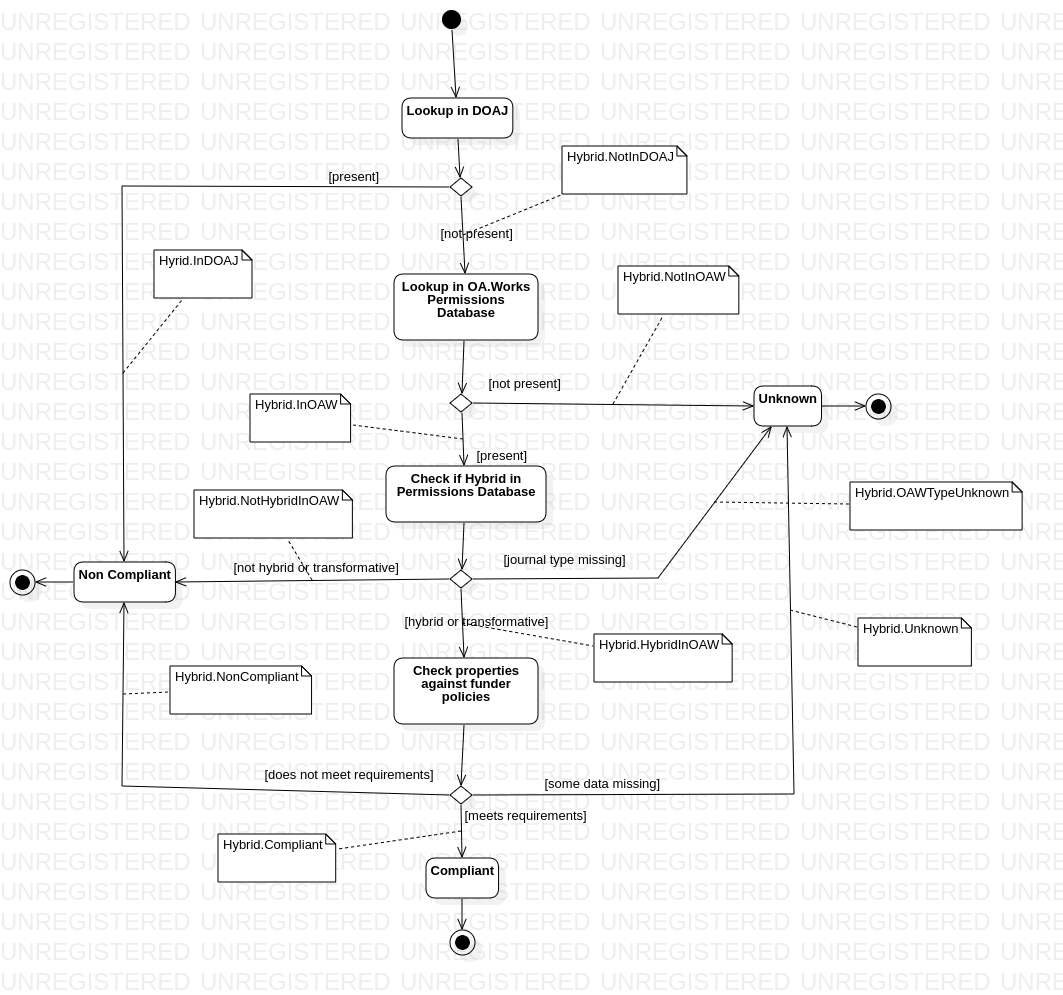
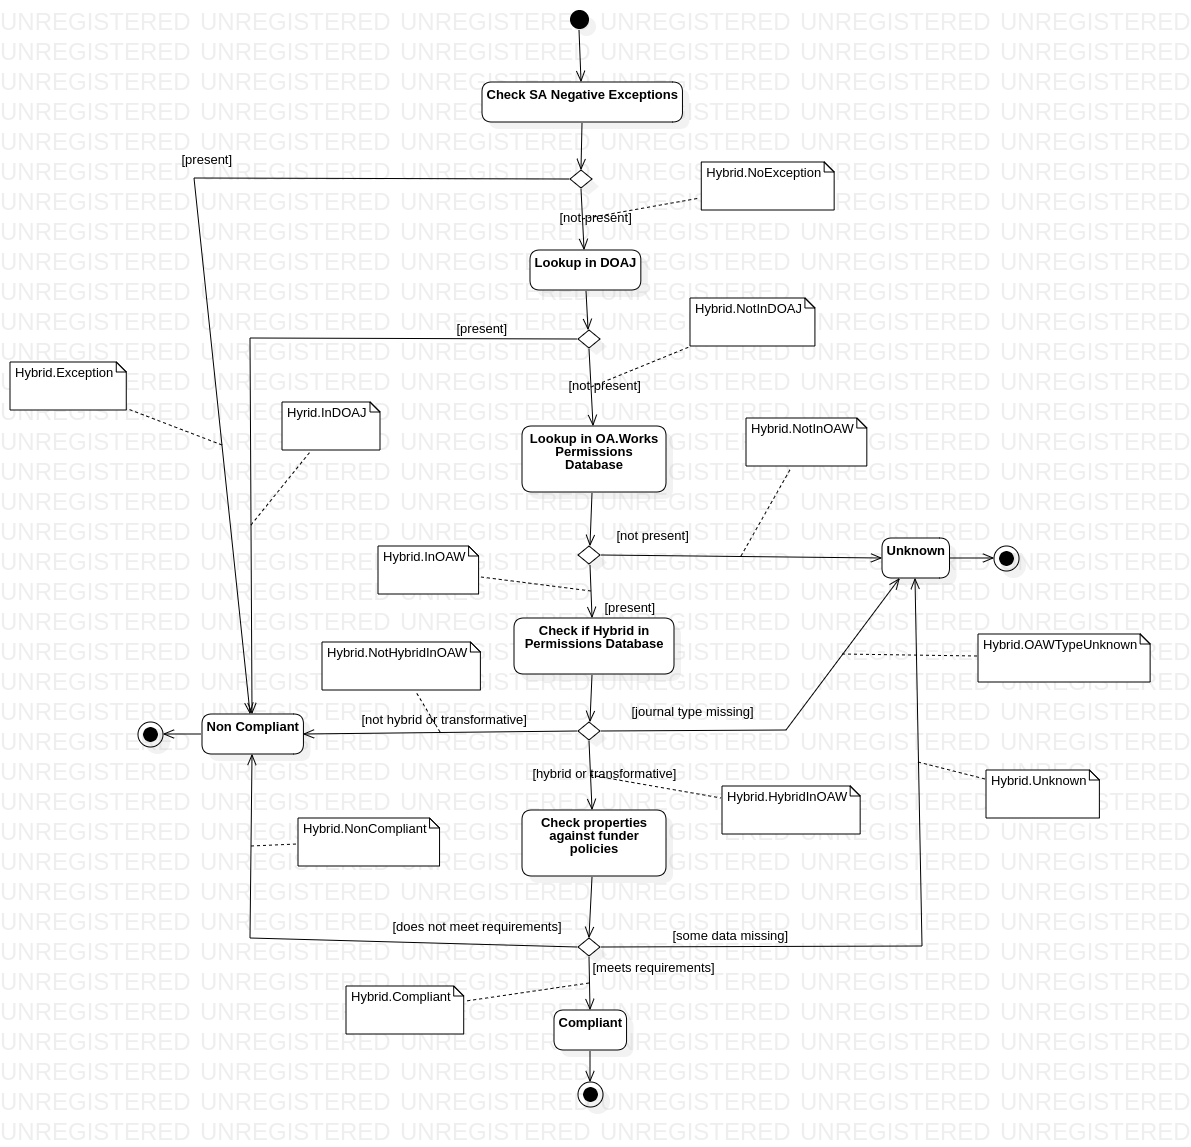
add proposed change to hybrid algorithm

diff --git a/documentation/algorithm/algorithm.md b/documentation/algorithm/algorithm.md
@@ -209,6 +209,9 @@ During each transition in the above diagram (Figure 6), the algorithm should rec
 This check determines if a journal is a hybrid.  It proceeds as follows (see *Figure 7*)
 
 
+* Check if the Journal appears in the Self-Archiving Negative Exceptions list
+  * If it is present, the journal is automatically Non-Compliant and all other processing can stop
+  * Otherwise carry on
 * Check if the Journal appears in DOAJ.  If it does, it is not a hybrid, and the route can terminate with a Non-Compliant result
 * Check if the Journal appears in the OA.Works Permissions database.
   * If it is not present, we are unable to tell if the journal is a hybrid, and we can terminate with an Unknown result
@@ -231,6 +234,8 @@ During each transition in the above diagram (Figure 7), the algorithm should rec
 
 | Code                  | Associated Properties |
 |-----------------------|-----------------------|
+| Hybrid.Exception      |                       |
+| Hybrid.NoException    |                       |
 | Hybrid.InDOAJ         |                       |
 | Hybrid.NotInDOAJ      |                       |
 | Hybrid.NotInOAW       |                       |
